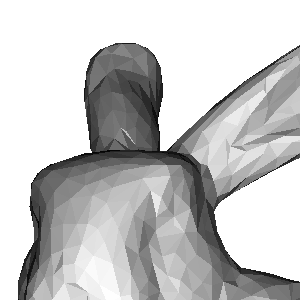
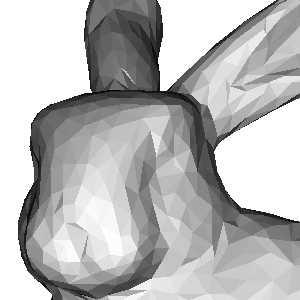
rewrite shading details

diff --git a/utils/compare.py b/utils/compare.py
@@ -2,9 +2,7 @@ import numpy as np
 from PIL import Image
 from matplotlib import pyplot as plt
 
-
-shading = 'phong'
-
-img = np.asarray(Image.open('../results/shading/{}.png'.format(shading)))
-img = img[150:450, 150:450, :]
-Image.fromarray(img).save("{}_detail.png".format(shading))
+for shading in ['flat', 'gouraud', 'phong']:
+    img = np.asarray(Image.open('../results/shading/{}.png'.format(shading)))
+    img = img[210:510, 150:450, :]
+    Image.fromarray(img).save("../results/shading/{}_detail.png".format(shading))
